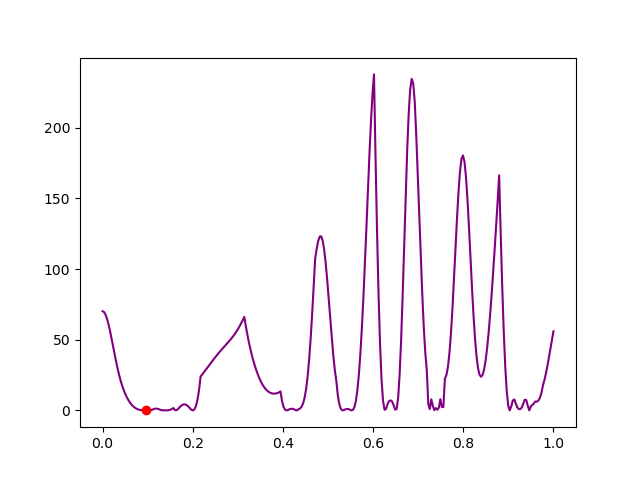
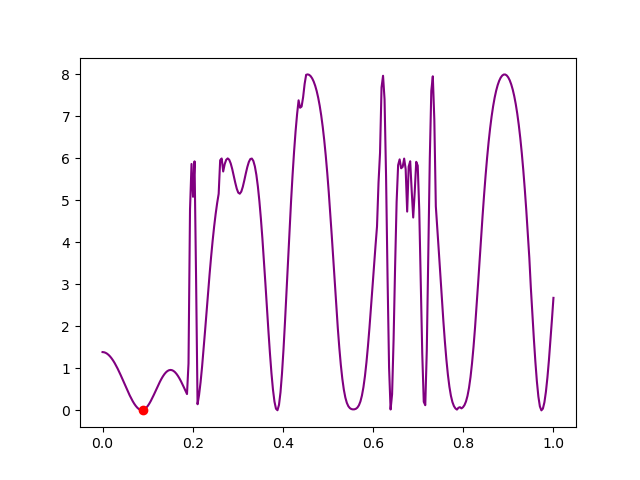
REMD for 2 temp

diff --git a/MD ENgine/src/REMD.py b/MD ENgine/src/REMD.py
@@ -1,0 +1,144 @@
+import numpy as np
+import Box
+from PBC import pbc 
+from Energy import pe_sys, ke_sys, F
+import matplotlib.pyplot as plt
+
+
+class REMD:
+    def __init__(self,s,t):
+        self.s = s
+        self.t = t
+        self.H = np.zeros(s)
+        self.KE = np.zeros(s)
+        self.PE = np.zeros(s)
+        self.PLTX = np.zeros(s)
+        self.PLTV = np.zeros(s)
+        self.H2 = np.zeros(s)
+        self.KE2 = np.zeros(s)
+        self.PE2 = np.zeros(s)
+        self.PLTX2 = np.zeros(s)
+        self.PLTV2 = np.zeros(s)
+        self.sigma = 10
+        self.nu = 10
+        self.tau = 10
+        self.ke_T2 = 10
+        self.sigma2 = 10
+        self.nu2 = 10
+        self.tau2 = 10
+        self.ke_T2 = 10
+
+    def run(self,particles,particles2,thermostat):
+        n = particles.n
+        s = self.s 
+        t = self.t
+        count = 0
+        X = particles.X
+        V = particles.V
+        L = particles.L
+        KE = self.KE 
+        PE = self.PE 
+        PLTX = self.PLTX 
+        PLTV = self.PLTV 
+        X2 = particles2.X
+        V2 = particles2.V
+        L2 = particles2.L
+        KE2 = self.KE2 
+        PE2 = self.PE2 
+        PLTX2 = self.PLTX2 
+        PLTV2 = self.PLTV2 
+        ke_T = self.ke_T
+        sigma = self.sigma
+        nu = self.nu
+        tau = self.tau
+        ke_T2 = self.ke_T2
+        sigma2 = self.sigma2
+        nu2 = self.nu2
+        tau2 = self.tau2
+
+        acc = np.zeros((n,3))
+        for l in X:
+            acc -= F(X-l)
+        acc3 = np.zeros((n,3))
+        for l in X2:
+            acc3 -= F(X2-l)
+        for j in range(s):
+            KE[j] = ke_sys(V)
+            PE[j] = pe_sys(X)
+            KE2[j] = ke_sys(V2)
+            PE2[j] = pe_sys(X2)
+            PLTX[j] = X[0][0]
+            PLTV[j] = V[0][0]
+            PLTX2[j] = X2[0][0]
+            PLTV2[j] = V2[0][0]
+            X += t*V + 0.5*t*t*acc
+            X2 += t*V2 + 0.5*t*t*acc3
+            acc2 = np.zeros((n,3))
+            acc4 = np.zeros((n,3))
+            for l in X:
+                acc2 -= F(X-l)
+            acc+=acc2
+            for l in X2:
+                acc4 -= F(X2-l)
+            acc3+=acc4
+            V += 0.5*acc*t
+            acc = acc2
+            V2 += 0.5*acc3*t
+            acc3 = acc4
+            thermostat(V,t,sigma,nu,ke_T,tau)
+            pbc(X,V,L) 
+            thermostat(V2,t,sigma2,nu2,ke_T2,tau2)
+            pbc(X2,V2,L2)   
+            if(PE[j] > PE2[j]):
+                count = count + 1
+                Z = X
+                X = X2
+                X2 = Z
+                Z = V
+                V = V2
+                V2 = Z
+                Z = acc
+                acc = acc3
+                acc3 = Z
+
+        self.H = KE + PE
+        self.KE = KE
+        self.PE = PE
+        self.PLTX = PLTX
+        self.PLTV = PLTV
+        particles.update(X,V)
+        self.H2 = KE2 + PE2
+        self.KE2 = KE2
+        self.PE2 = PE2
+        self.PLTX2 = PLTX2
+        self.PLTV2 = PLTV2
+        particles.update(X2,V2)
+        return count
+
+    def plot0th(self):
+        x1 = np.linspace(0, 1, self.s)
+        plt.plot(x1, self.PLTV,color='red')
+        plt.plot(x1, self.PLTX)
+        plt.savefig('T_Lowth.png')
+        plt.close()
+        plt.plot(x1, self.PLTV2,color='red')
+        plt.plot(x1, self.PLTX2)
+        plt.savefig('T_Highth.png')
+        plt.close()
+
+    def plot(self):
+        x1 = np.linspace(0, 1, self.s)
+        plt.plot(x1, self.H,color='green')
+        plt.plot(x1, self.PE,color='purple')
+        plt.plot(x1, self.KE, color='red')   
+        plt.savefig('T_Low.png')
+        plt.close()
+        plt.plot(x1, self.H2,color='green')
+        plt.plot(x1, self.PE2,color='purple')
+        plt.plot(x1, self.KE2, color='red')
+        plt.savefig('T_High.png')
+        plt.close()
+
+def createREMD(s,t):
+    v = REMD(s,t)
+    return v

diff --git a/MD ENgine/MD.py b/MD ENgine/MD.py
@@ -4,34 +4,49 @@ import sys
 sys.path.append('./src')
 import Box
 import Propagator
+import REMD
 from Thermostats import Anderson, Berendsen, Velocity_rescale, Non
 from Energy import pe_sys,F
 from Minimisation import minisation
-
+from REMD import createREMD
 
 
 # Set up for box 
-particles = Box.createBox(2,6)  # n,L
-sim = Propagator.createSim(300, 0.01) # s, t
-
-
+particles = Box.createBox(10,6)  # n,L
+# sim = Propagator.createSim(1000, 0.01) # s, t
+p2 = Box.createBox(particles.n,particles.L)
+remd = REMD.createREMD(10000,0.01) 
 
 # Calculate some sigma for Anderson, sigma = square root of KbT
-sim.sigma = 0.1*np.sqrt((pe_sys(particles.X)*2)/9)
-sim.nu = 7
+# sim.sigma = 0.1*np.sqrt((pe_sys(particles.X)*2)/9)
+# sim.nu = 7
+remd.sigma = 0.1*np.sqrt((pe_sys(particles.X)*2)/9)
+remd.sigma2 = 1.1*remd.sigma
+remd.nu = 7
+remd.nu2 = 7
 # Berendsen & Velocity rescale, constant temp T lets assume the KE & tau for Berendsen 
-sim.ke_T = pe_sys(particles.X)/4.5
-sim.tau = 10*sim.t
+# sim.ke_T = pe_sys(particles.X)/4.5
+# sim.tau = 10*sim.t
+remd.ke_T = pe_sys(particles.X)/4.5
+remd.tau = 10*remd.t
+remd.ke_T2 = 1.1*remd.ke_T
+remd.tau = 1.1*remd.tau
 
 
 # Run Minimisation 
-j,pefound = minisation(sim,particles)
+#j,pefound = minisation(sim,particles)
+
 
 # Run simulation 
-sim.run(particles,Non)
+# sim.run(particles,Non)
+# sim.plot()
+count = remd.run(particles,p2,Anderson)
+print("number of exhanges: ", count)
+remd.plot()
+remd.plot0th()
 
-print("minimisation pe found: ", pefound)
-print("actual min pe:", np.min(sim.PE))
-sim.plotMin((j-1)/sim.s,pefound)
-
+# print("minimisation pe found: ", pefound)
+# print("actual min pe:", np.min(sim.PE))
+# sim.plotMin((j-1)/sim.s,pefound)
 #sim.plot0th()
+

diff --git a/MD ENgine/src/Energy.py b/MD ENgine/src/Energy.py
@@ -4,30 +4,30 @@ import math
 import autograd.numpy as np
 from autograd import grad
 
-#k = 0.1
-# def pe(x):
-#     return 0.5*k*x*x
+k = 0.1
+def pe(x):
+    return 0.5*k*x*x
 
 #Force calculations from PE
-# x = symbols('x')
-# f = pe(x)
-# force = diff(f, x)
-# Forc = lambdify(x, force)
+x = symbols('x')
+f = pe(x)
+force = diff(f, x)
+F = lambdify(x, force)
 
-def pe(x):
-    if x <= -1.25:
-        return 4*np.pi**2*(x+1.25)**2
-    if x > -1.25 and x <= -0.25:
-        return 2*(1+np.sin(2*np.pi*x))
-    if x > -0.25 and x <= 0.75:
-        return 3*(1+np.sin(2*np.pi*x))
-    if x > 0.75 and x <= 1.75: 
-        return 4*(1+np.sin(2*np.pi*x))
-    if x > 1.75: 
-        return 8*np.pi**2*(x-1.75)**2
+# def pe(x):
+#     if x <= -1.25:
+#         return 4*np.pi**2*(x+1.25)**2
+#     if x > -1.25 and x <= -0.25:
+#         return 2*(1+np.sin(2*np.pi*x))
+#     if x > -0.25 and x <= 0.75:
+#         return 3*(1+np.sin(2*np.pi*x))
+#     if x > 0.75 and x <= 1.75: 
+#         return 4*(1+np.sin(2*np.pi*x))
+#     if x > 1.75: 
+#         return 8*np.pi**2*(x-1.75)**2
     
-Forc = grad(pe)
-F = np.vectorize(Forc)
+# Forc = grad(pe)
+# F = np.vectorize(Forc)
 
 
 def ke_sys(V):

diff --git a/MD ENgine/src/Propagator.py b/MD ENgine/src/Propagator.py
@@ -65,6 +65,7 @@ class Propagator:
         plt.plot(x1, self.PLTV,color='red')
         plt.plot(x1, self.PLTX)
         plt.savefig('0th.png')
+        plt.close()
 
     def plot(self):
         x1 = np.linspace(0, 1, self.s)
@@ -72,12 +73,14 @@ class Propagator:
         plt.plot(x1, self.PE,color='purple')
         plt.plot(x1, self.KE, color='red')   
         plt.savefig('energy.png')
+        plt.close()
 
     def plotMin(self,j,minE):
         x1 = np.linspace(0, 1, self.s)
         plt.plot(x1, self.PE,color='purple')
         plt.plot(j, minE,'ro')   
         plt.savefig('Minenergy.png')
+        plt.close()
 
 
 def createSim(s,t):
